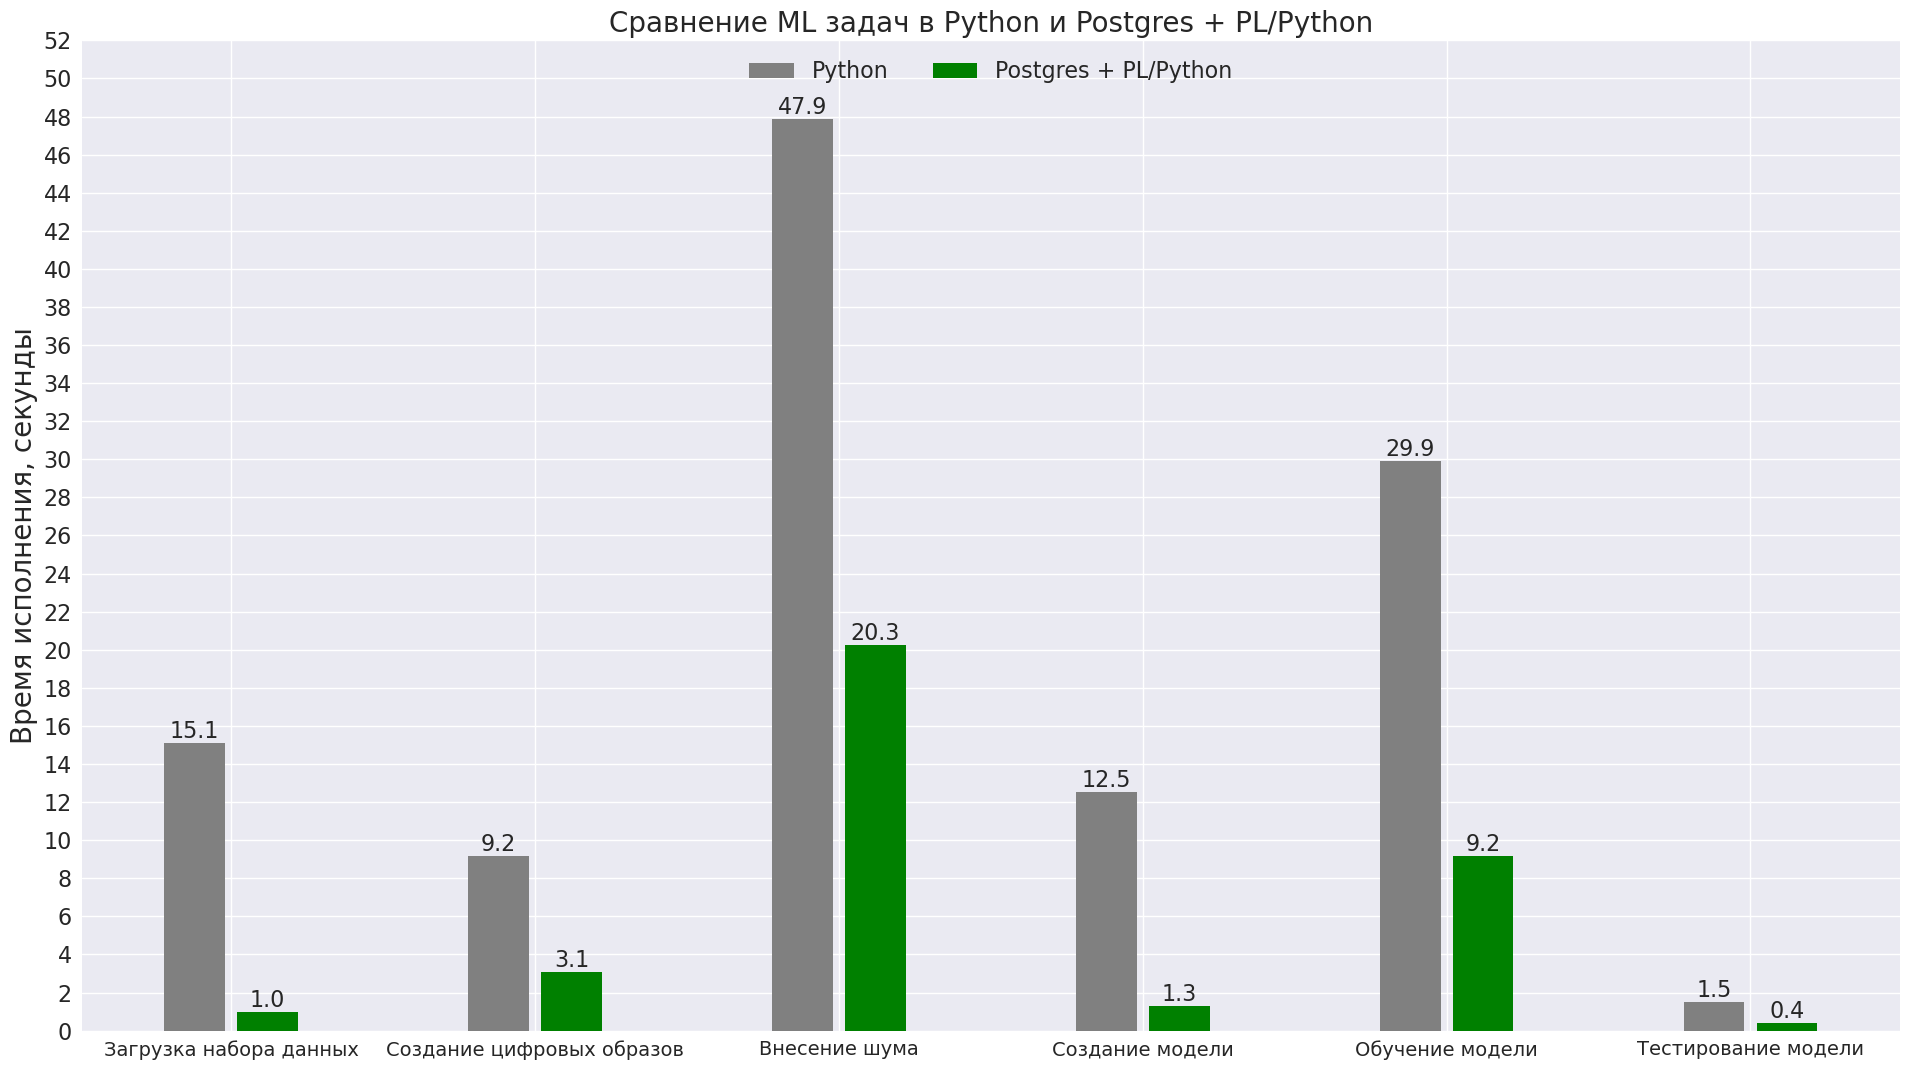
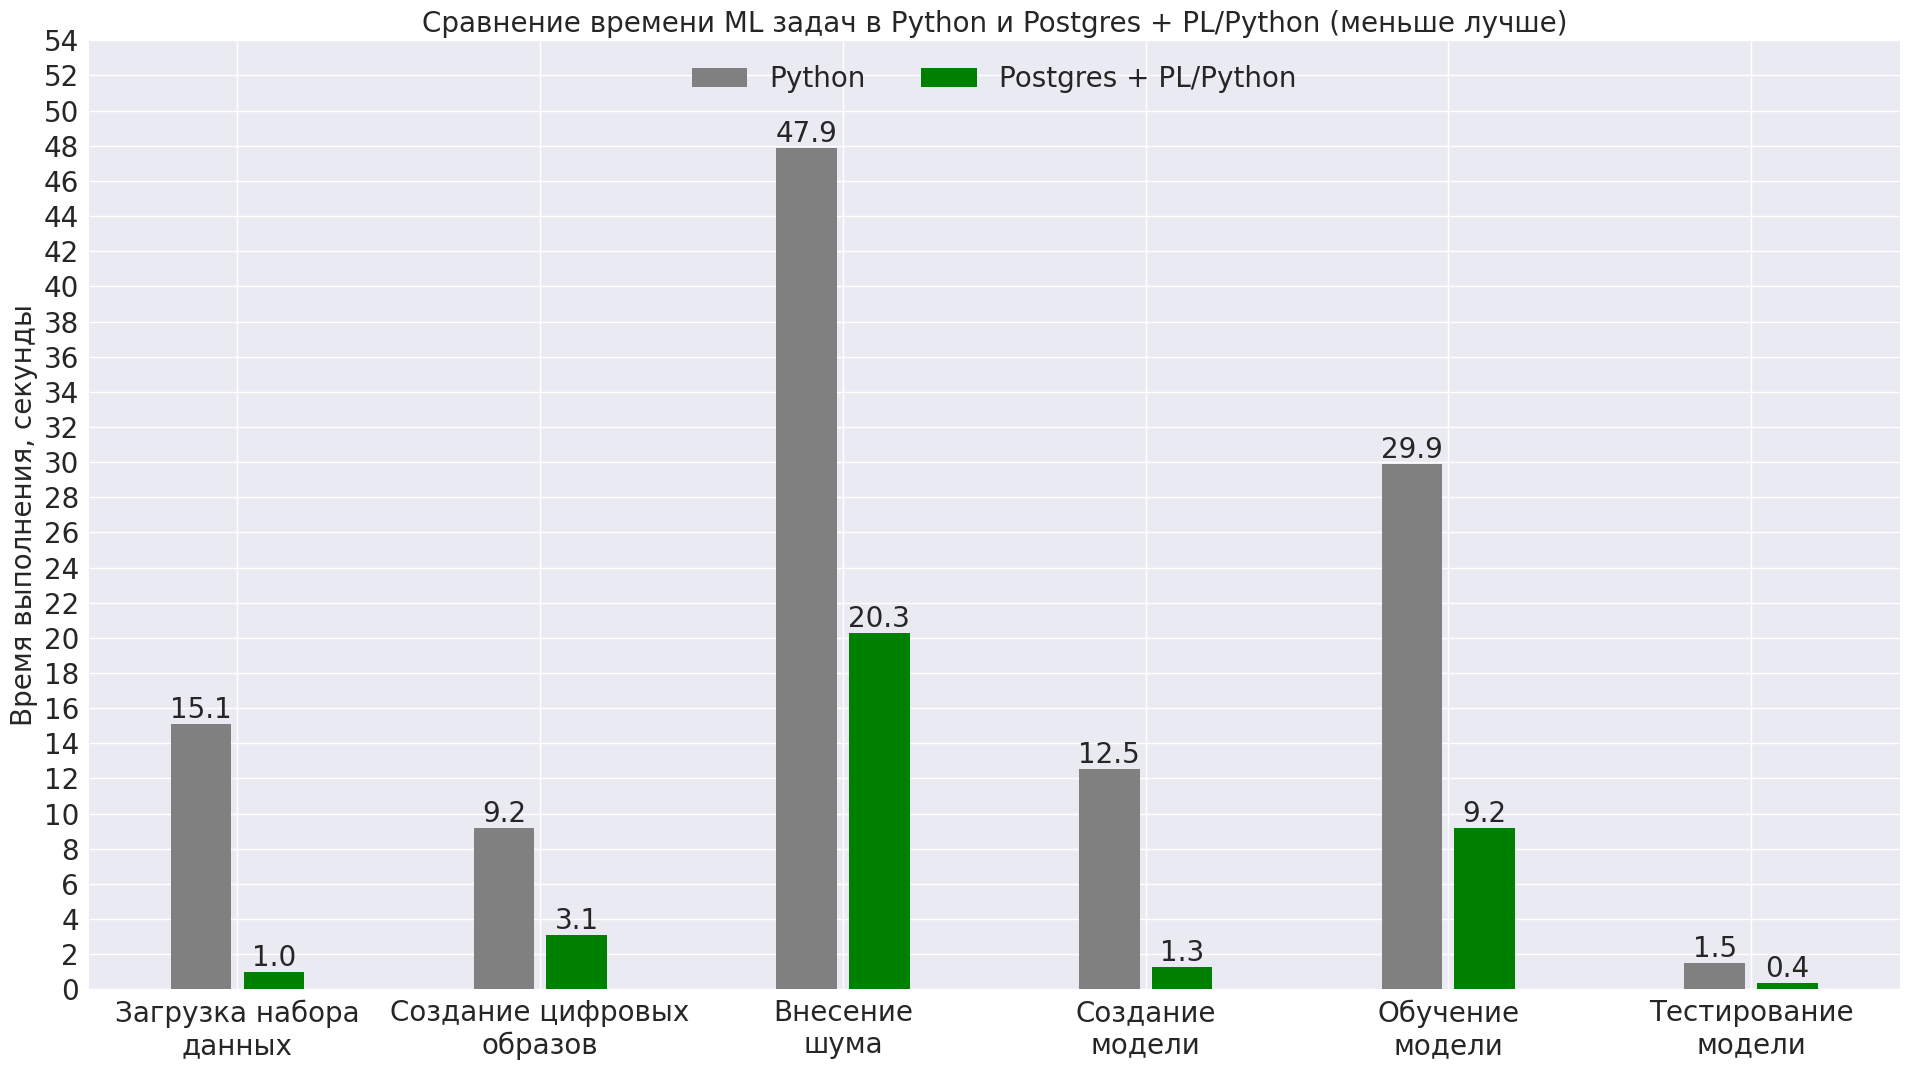
Add graphs and animations scripts
Add animation for digital_images as noise matrix animated
Add prediction graph draw as class_predict_num etc.
Rename titles, axes and change fonts in postgres vs python graph

diff --git a/haralick-features/postgres-vs-python.py b/haralick-features/postgres-vs-python.py
@@ -18,46 +18,46 @@ for i in range(len(data[0])):
     bar_data[0].append(data[0][i] / data[1][i])
 
 columns = (
-    'Загрузка набора данных', 'Создание цифровых образов', 'Внесение шума',
-    'Создание модели', 'Обучение модели', 'Тестирование модели'
+    'Загрузка набора\nданных', 'Создание цифровых\nобразов', 'Внесение\nшума',
+    'Создание\nмодели', 'Обучение\nмодели', 'Тестирование\nмодели'
 )
 rows = ['Postgres + PL/Python', 'Python']
 
 colors = ['green', 'gray']
-index = np.arange(len(columns)) + 0.166
+index = np.arange(0.0, len(columns) * 1.0, 1.0) + 0.166
 bar_width = 0.2
 y_offset = np.zeros(len(columns))
 
 values = np.arange(0, 17.5, 0.5)
 plt.figure(figsize=(19.2, 10.8), dpi=100)
 rects_0 = plt.bar(index - 0.12, bar_data[1], bar_width, bottom=y_offset, color=colors[1], label=rows[1])
-plt.bar_label(rects_0, fmt='%.1f', fontsize=16)
+plt.bar_label(rects_0, fmt='%.1f', fontsize=20)
 rects_1 = plt.bar(index + 0.12, bar_data[0], bar_width, bottom=y_offset, color=colors[0], label=rows[0])
-plt.bar_label(rects_1, fmt='%.1f', fontsize=16)
-plt.legend(loc='upper center', ncols=2, fontsize=16)
+plt.bar_label(rects_1, fmt='%.1f', fontsize=20)
+plt.legend(loc='upper center', ncols=2, fontsize=20)
 
-plt.ylabel(f"Уменьшение времени исполнения, кол-во раз", fontdict={'fontsize': 20})
-plt.yticks(values, fontsize=16)
-plt.xticks([0.166, 1.166, 2.166, 3.166, 4.166, 5.166], columns, fontsize=14)
-plt.title('Сравнение ML задач в Python и Postgres + PL/Python', fontdict={'fontsize': 20})
+plt.ylabel(f"Уменьшение времени выполнения, кол-во раз", fontdict={'fontsize': 20})
+plt.yticks(values, fontsize=20)
+plt.xticks(index, columns, fontsize=20)
+plt.title('Сравнение времени ML задач в Python и Postgres + PL/Python (больше лучше)', fontdict={'fontsize': 20})
 plt.tight_layout()
 plt.savefig('graphs/postgres-vs-python-graph.png', bbox_inches='tight')
 plt.show()
 
 plt.clf()
 
-values = np.arange(0.0, 54.0, 2.0)
+values = np.arange(0.0, 56.0, 2.0)
 plt.figure(figsize=(19.2, 10.8), dpi=100)
 rects_2 = plt.bar(index - 0.12, [x / 1000.0 for x in data[0]], bar_width, bottom=y_offset, color=colors[1], label=rows[1])
-plt.bar_label(rects_2, fmt='%.1f', fontsize=16)
+plt.bar_label(rects_2, fmt='%.1f', fontsize=20)
 rects_3 = plt.bar(index + 0.12, [x / 1000.0 for x in data[1]], bar_width, bottom=y_offset, color=colors[0], label=rows[0])
-plt.bar_label(rects_3, fmt='%.1f', fontsize=16)
-plt.legend(loc='upper center', ncols=2, fontsize=16)
+plt.bar_label(rects_3, fmt='%.1f', fontsize=20)
+plt.legend(loc='upper center', ncols=2, fontsize=20)
 
-plt.ylabel(f"Время исполнения, секунды", fontdict={'fontsize': 20})
-plt.yticks(values, fontsize=16)
-plt.xticks([0.166, 1.166, 2.166, 3.166, 4.166, 5.166], columns, fontsize=14)
-plt.title('Сравнение ML задач в Python и Postgres + PL/Python', fontdict={'fontsize': 20})
+plt.ylabel(f"Время выполнения, секунды", fontdict={'fontsize': 20})
+plt.yticks(values, fontsize=20)
+plt.xticks(index, columns, fontsize=20)
+plt.title('Сравнение времени ML задач в Python и Postgres + PL/Python (меньше лучше)', fontdict={'fontsize': 20})
 plt.tight_layout()
 plt.savefig('graphs/postgres-vs-python-graph-s.png', bbox_inches='tight')
 plt.show()
@@ -111,35 +111,35 @@ def animate_one(i):
         y_dict['10'], y_dict['11'] = lst_ranges[5][0][-1], lst_ranges[5][1][-1]
 
     rect0 = plt.bar(index_list[0] - 0.12, y_dict['0'], bar_width, color='gray', label=rows[1])
-    plt.bar_label(rect0, fmt='%1.1f', fontsize=16)
+    plt.bar_label(rect0, fmt='%1.1f', fontsize=20)
     rect1 = plt.bar(index_list[0] + 0.12, y_dict['1'], bar_width, color='green', label=rows[0])
-    plt.bar_label(rect1, fmt='%1.1f', fontsize=16)
+    plt.bar_label(rect1, fmt='%1.1f', fontsize=20)
     rect2 = plt.bar(index_list[1] - 0.12, y_dict['2'], bar_width, color='gray')
-    plt.bar_label(rect2, fmt='%1.1f', fontsize=16)
+    plt.bar_label(rect2, fmt='%1.1f', fontsize=20)
     rect3 = plt.bar(index_list[1] + 0.12, y_dict['3'], bar_width, color='green')
-    plt.bar_label(rect3, fmt='%1.1f', fontsize=16)
+    plt.bar_label(rect3, fmt='%1.1f', fontsize=20)
     rect4 = plt.bar(index_list[2] - 0.12, y_dict['4'], bar_width, color='gray')
-    plt.bar_label(rect4, fmt='%1.1f', fontsize=16)
+    plt.bar_label(rect4, fmt='%1.1f', fontsize=20)
     rect5 = plt.bar(index_list[2] + 0.12, y_dict['5'], bar_width, color='green')
-    plt.bar_label(rect5, fmt='%1.1f', fontsize=16)
+    plt.bar_label(rect5, fmt='%1.1f', fontsize=20)
     rect6 = plt.bar(index_list[3] - 0.12, y_dict['6'], bar_width, color='gray')
-    plt.bar_label(rect6, fmt='%1.1f', fontsize=16)
+    plt.bar_label(rect6, fmt='%1.1f', fontsize=20)
     rect7 = plt.bar(index_list[3] + 0.12, y_dict['7'], bar_width, color='green')
-    plt.bar_label(rect7, fmt='%1.1f', fontsize=16)
+    plt.bar_label(rect7, fmt='%1.1f', fontsize=20)
     rect8 = plt.bar(index_list[4] - 0.12, y_dict['8'], bar_width, color='gray')
-    plt.bar_label(rect8, fmt='%1.1f', fontsize=16)
+    plt.bar_label(rect8, fmt='%1.1f', fontsize=20)
     rect9 = plt.bar(index_list[4] + 0.12, y_dict['9'], bar_width, color='green')
-    plt.bar_label(rect9, fmt='%1.1f', fontsize=16)
+    plt.bar_label(rect9, fmt='%1.1f', fontsize=20)
     rect10 = plt.bar(index_list[5] - 0.12, y_dict['10'], bar_width, color='gray')
-    plt.bar_label(rect10, fmt='%1.1f', fontsize=16)
+    plt.bar_label(rect10, fmt='%1.1f', fontsize=20)
     rect11 = plt.bar(index_list[5] + 0.12, y_dict['11'], bar_width, color='green')
-    plt.bar_label(rect11, fmt='%1.1f', fontsize=16)
+    plt.bar_label(rect11, fmt='%1.1f', fontsize=20)
 
-    plt.legend(loc='upper center', ncols=2, fontsize=16)
-    plt.ylabel(f"Уменьшение времени исполнения, кол-во раз", fontdict={'fontsize': 20})
-    plt.xticks([0.5, 1.5, 2.5, 3.5, 4.5, 5.5], columns, fontsize=14)
-    plt.yticks(values, fontsize=16)
-    plt.title('Сравнение ML задач в Python и Postgres + PL/Python', fontdict={'fontsize': 20})
+    plt.legend(loc='upper center', ncols=2, fontsize=20)
+    plt.ylabel(f"Уменьшение времени выполнения, кол-во раз", fontdict={'fontsize': 20})
+    plt.xticks([0.5, 1.5, 2.5, 3.5, 4.5, 5.5], columns, fontsize=20)
+    plt.yticks(values, fontsize=20)
+    plt.title('Сравнение времени ML задач в Python и Postgres + PL/Python (больше лучше)', fontdict={'fontsize': 20})
     plt.ylim([0, 18])
     plt.xlim([0.0, 6.0])
     plt.tight_layout()
@@ -147,7 +147,7 @@ def animate_one(i):
 ani = FuncAnimation(fig, animate_one, frames=240, interval=10)
 ani.save('postgres-vs-python.mp4', writer='ffmpeg', fps=60)
 
-values = np.arange(0.0, 54.0, 2.0)
+values = np.arange(0.0, 56.0, 2.0)
 
 frames = 120.0
 
@@ -196,36 +196,36 @@ def animate_two(i):
         y_dict['10'], y_dict['11'] = lst_ranges[5][0][-1], lst_ranges[5][1][-1]
 
     rect0 = plt.bar(index_list[0] - 0.12, y_dict['0'], bar_width, color='gray', label=rows[1])
-    plt.bar_label(rect0, fmt='%1.1f', fontsize=16)
+    plt.bar_label(rect0, fmt='%1.1f', fontsize=20)
     rect1 = plt.bar(index_list[0] + 0.12, y_dict['1'], bar_width, color='green', label=rows[0])
-    plt.bar_label(rect1, fmt='%1.1f', fontsize=16)
+    plt.bar_label(rect1, fmt='%1.1f', fontsize=20)
     rect2 = plt.bar(index_list[1] - 0.12, y_dict['2'], bar_width, color='gray')
-    plt.bar_label(rect2, fmt='%1.1f', fontsize=16)
+    plt.bar_label(rect2, fmt='%1.1f', fontsize=20)
     rect3 = plt.bar(index_list[1] + 0.12, y_dict['3'], bar_width, color='green')
-    plt.bar_label(rect3, fmt='%1.1f', fontsize=16)
+    plt.bar_label(rect3, fmt='%1.1f', fontsize=20)
     rect4 = plt.bar(index_list[2] - 0.12, y_dict['4'], bar_width, color='gray')
-    plt.bar_label(rect4, fmt='%1.1f', fontsize=16)
+    plt.bar_label(rect4, fmt='%1.1f', fontsize=20)
     rect5 = plt.bar(index_list[2] + 0.12, y_dict['5'], bar_width, color='green')
-    plt.bar_label(rect5, fmt='%1.1f', fontsize=16)
+    plt.bar_label(rect5, fmt='%1.1f', fontsize=20)
     rect6 = plt.bar(index_list[3] - 0.12, y_dict['6'], bar_width, color='gray')
-    plt.bar_label(rect6, fmt='%1.1f', fontsize=16)
+    plt.bar_label(rect6, fmt='%1.1f', fontsize=20)
     rect7 = plt.bar(index_list[3] + 0.12, y_dict['7'], bar_width, color='green')
-    plt.bar_label(rect7, fmt='%1.1f', fontsize=16)
+    plt.bar_label(rect7, fmt='%1.1f', fontsize=20)
     rect8 = plt.bar(index_list[4] - 0.12, y_dict['8'], bar_width, color='gray')
-    plt.bar_label(rect8, fmt='%1.1f', fontsize=16)
+    plt.bar_label(rect8, fmt='%1.1f', fontsize=20)
     rect9 = plt.bar(index_list[4] + 0.12, y_dict['9'], bar_width, color='green')
-    plt.bar_label(rect9, fmt='%1.1f', fontsize=16)
+    plt.bar_label(rect9, fmt='%1.1f', fontsize=20)
     rect10 = plt.bar(index_list[5] - 0.12, y_dict['10'], bar_width, color='gray')
-    plt.bar_label(rect10, fmt='%1.1f', fontsize=16)
+    plt.bar_label(rect10, fmt='%1.1f', fontsize=20)
     rect11 = plt.bar(index_list[5] + 0.12, y_dict['11'], bar_width, color='green')
-    plt.bar_label(rect11, fmt='%1.1f', fontsize=16)
+    plt.bar_label(rect11, fmt='%1.1f', fontsize=20)
 
-    plt.legend(loc='upper center', ncols=2, fontsize=16)
-    plt.ylabel(f"Время исполнения, секунды", fontdict={'fontsize': 20})
-    plt.xticks([0.5, 1.5, 2.5, 3.5, 4.5, 5.5], columns, fontsize=14)
-    plt.yticks(values, fontsize=16)
-    plt.title('Сравнение ML задач в Python и Postgres + PL/Python', fontdict={'fontsize': 20})
-    plt.ylim([0, 52])
+    plt.legend(loc='upper center', ncols=2, fontsize=20)
+    plt.ylabel(f"Время выполнения, секунды", fontdict={'fontsize': 20})
+    plt.xticks([0.5, 1.5, 2.5, 3.5, 4.5, 5.5], columns, fontsize=20)
+    plt.yticks(values, fontsize=20)
+    plt.title('Сравнение времени ML задач в Python и Postgres + PL/Python (меньше лучше)', fontdict={'fontsize': 20})
+    plt.ylim([0, 54])
     plt.xlim([0.0, 6.0])
     plt.tight_layout()
 

diff --git a/haralick-features/prediction_graph.py b/haralick-features/prediction_graph.py
@@ -1,0 +1,35 @@
+import matplotlib.pyplot as plt
+import numpy as np
+
+plt.style.use("seaborn")
+
+data = [ 0.00000, 0.04146, 0.00000, 98.81749, 0.00000, 0.00062, 0.00030, 1.14012 ]
+
+values = np.arange(0.0, 101.0, 5.0)
+columns = [1, 2, 3, 4, 5, 6, 7, 8]
+index = [0.166, 1.166, 2.166, 3.166, 4.166, 5.166, 6.166, 7.166]
+width = 0.5
+y_offset = np.zeros(len(columns))
+colors = ['gray' for _ in range(7)]
+max_index = data.index(max(data))
+colors.insert(max_index, 'green')
+rows = ['Предсказанный класс', 'Остальные классы']
+
+plt.figure(figsize=(10, 10), dpi=100)
+rects_0 = plt.bar(index, data, width, align='center', color=colors)
+plt.bar_label(rects_0, labels=[f'{x:,.2f}%' for x in rects_0.datavalues], fontsize=20)
+legend_colors = {'Предсказанный класс': 'green', 'Остальные классы': 'gray'}
+labels = list(legend_colors.keys())
+handles = [plt.Rectangle((0,0),1,1, color=legend_colors[label]) for label in labels]
+plt.legend(handles, labels, loc='upper right', ncols=1, fontsize=20)
+
+plt.ylabel(f"Вероятность выбора класса, процент", fontdict={'fontsize': 20})
+plt.xlabel(f"Метки классов", fontdict={'fontsize': 20})
+plt.yticks(values, fontsize=20)
+plt.xticks([0.166, 1.166, 2.166, 3.166, 4.166, 5.166, 6.166, 7.166], columns, fontsize=20)
+plt.title('Результат распознавания', fontdict={'fontsize': 20})
+plt.tight_layout()
+plt.savefig('graphs/class_predict_2.png', bbox_inches='tight')
+plt.show()
+
+plt.clf()

diff --git a/haralick-features/digital_images.py b/haralick-features/digital_images.py
@@ -1,0 +1,21 @@
+import numpy as np
+import matplotlib.pyplot as plt
+from matplotlib.animation import FuncAnimation
+import skimage
+
+fig = plt.figure(frameon=False)
+fig.set_size_inches(6, 4)
+ax = plt.Axes(fig, [0., 0., 1., 1.])
+ax.set_axis_off()
+fig.add_axes(ax)
+
+def update(i):
+    image_number = (i // 3) + 1
+    print(f'image_number: {image_number}, i: {i}')
+    image = plt.imread(f'resources/final-digitals/train_dir/4/{image_number}.png')[:, :, :3]
+    ax.imshow(image, aspect='auto', cmap='gray')
+
+ani = FuncAnimation(fig, update, frames=300, interval=10)
+ani.save('noise_matrix.mp4', writer='ffmpeg', fps=60)
+
+plt.show()
